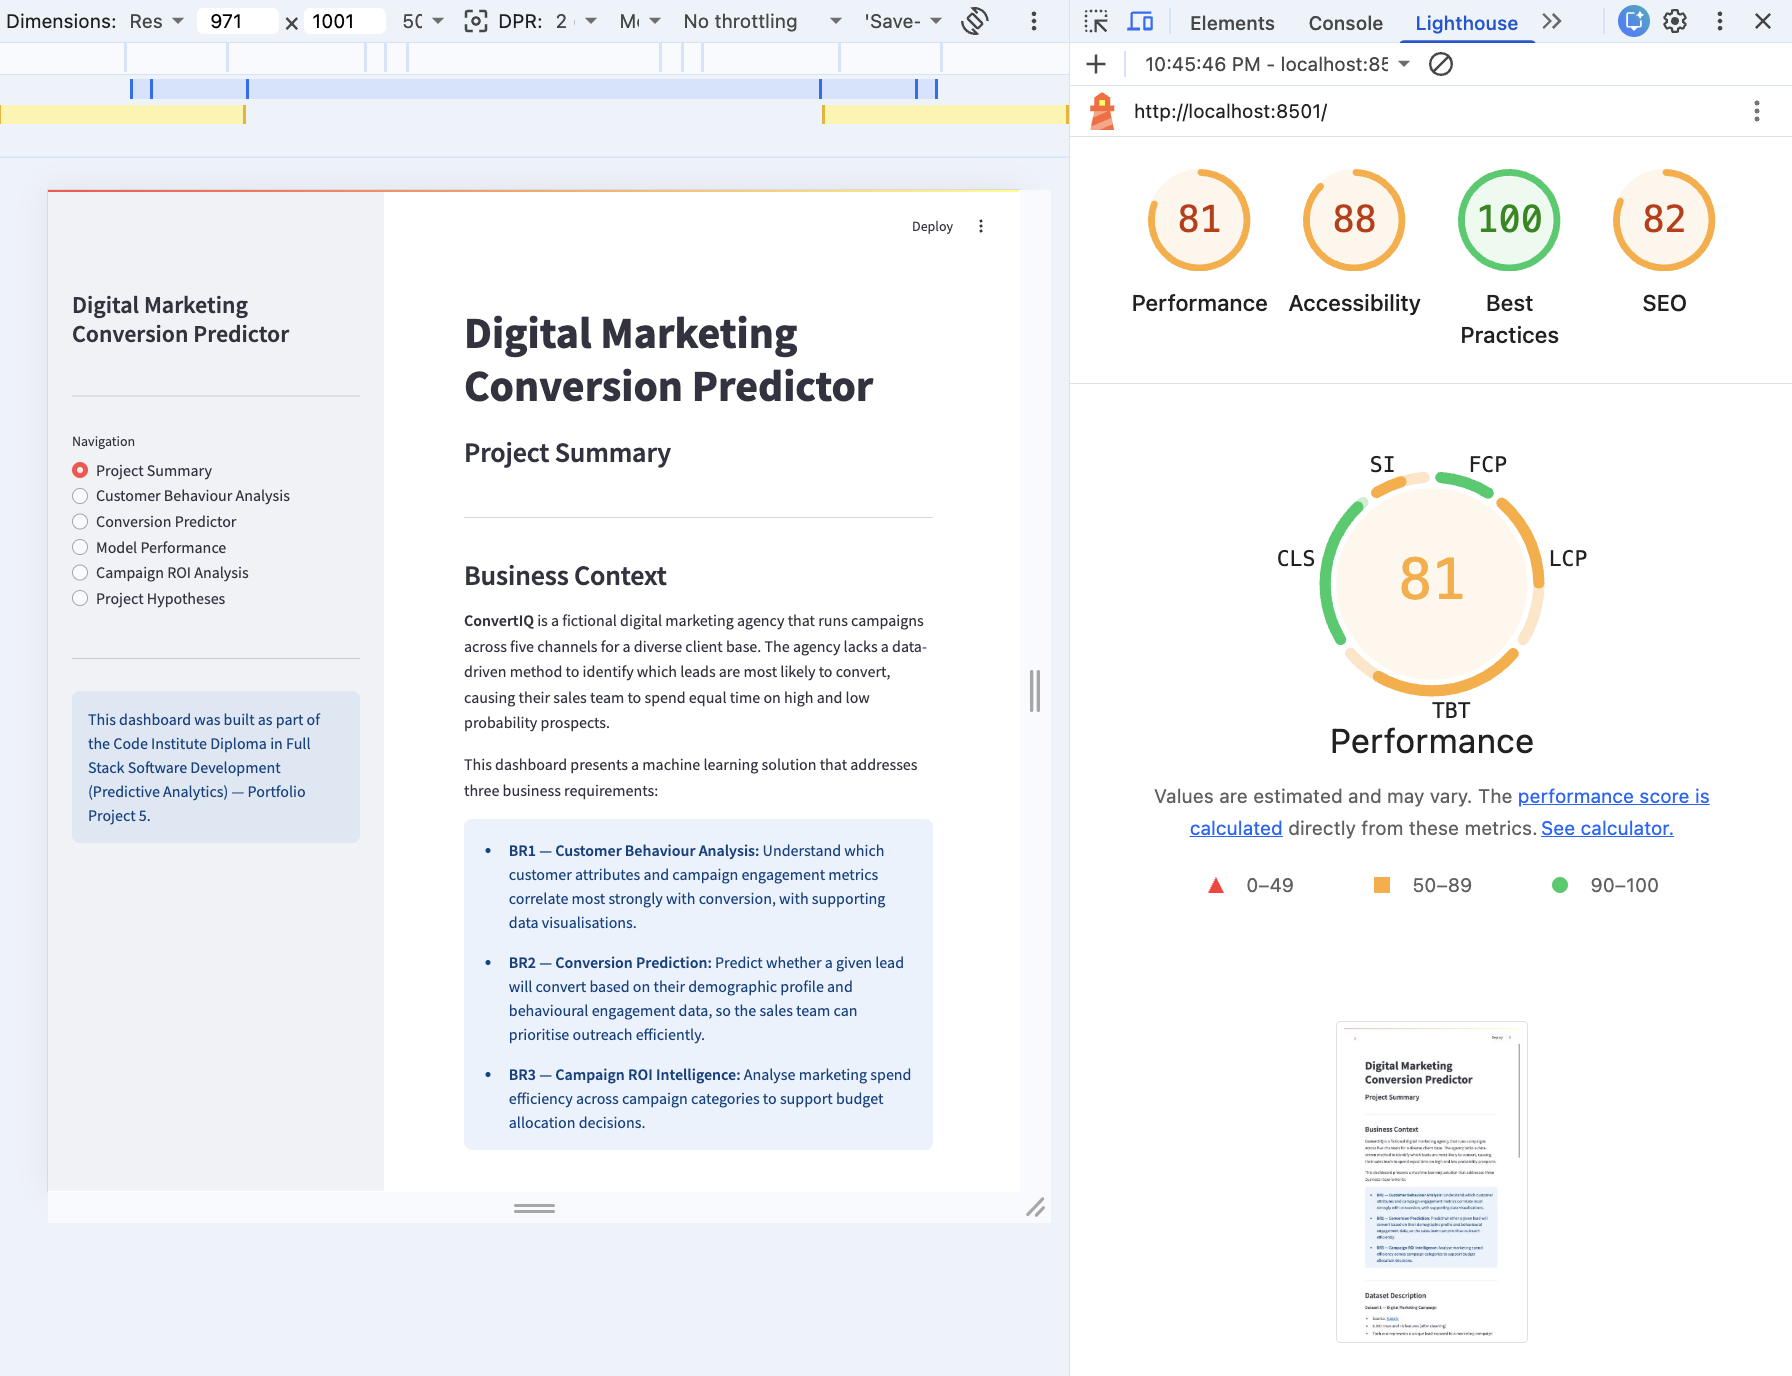
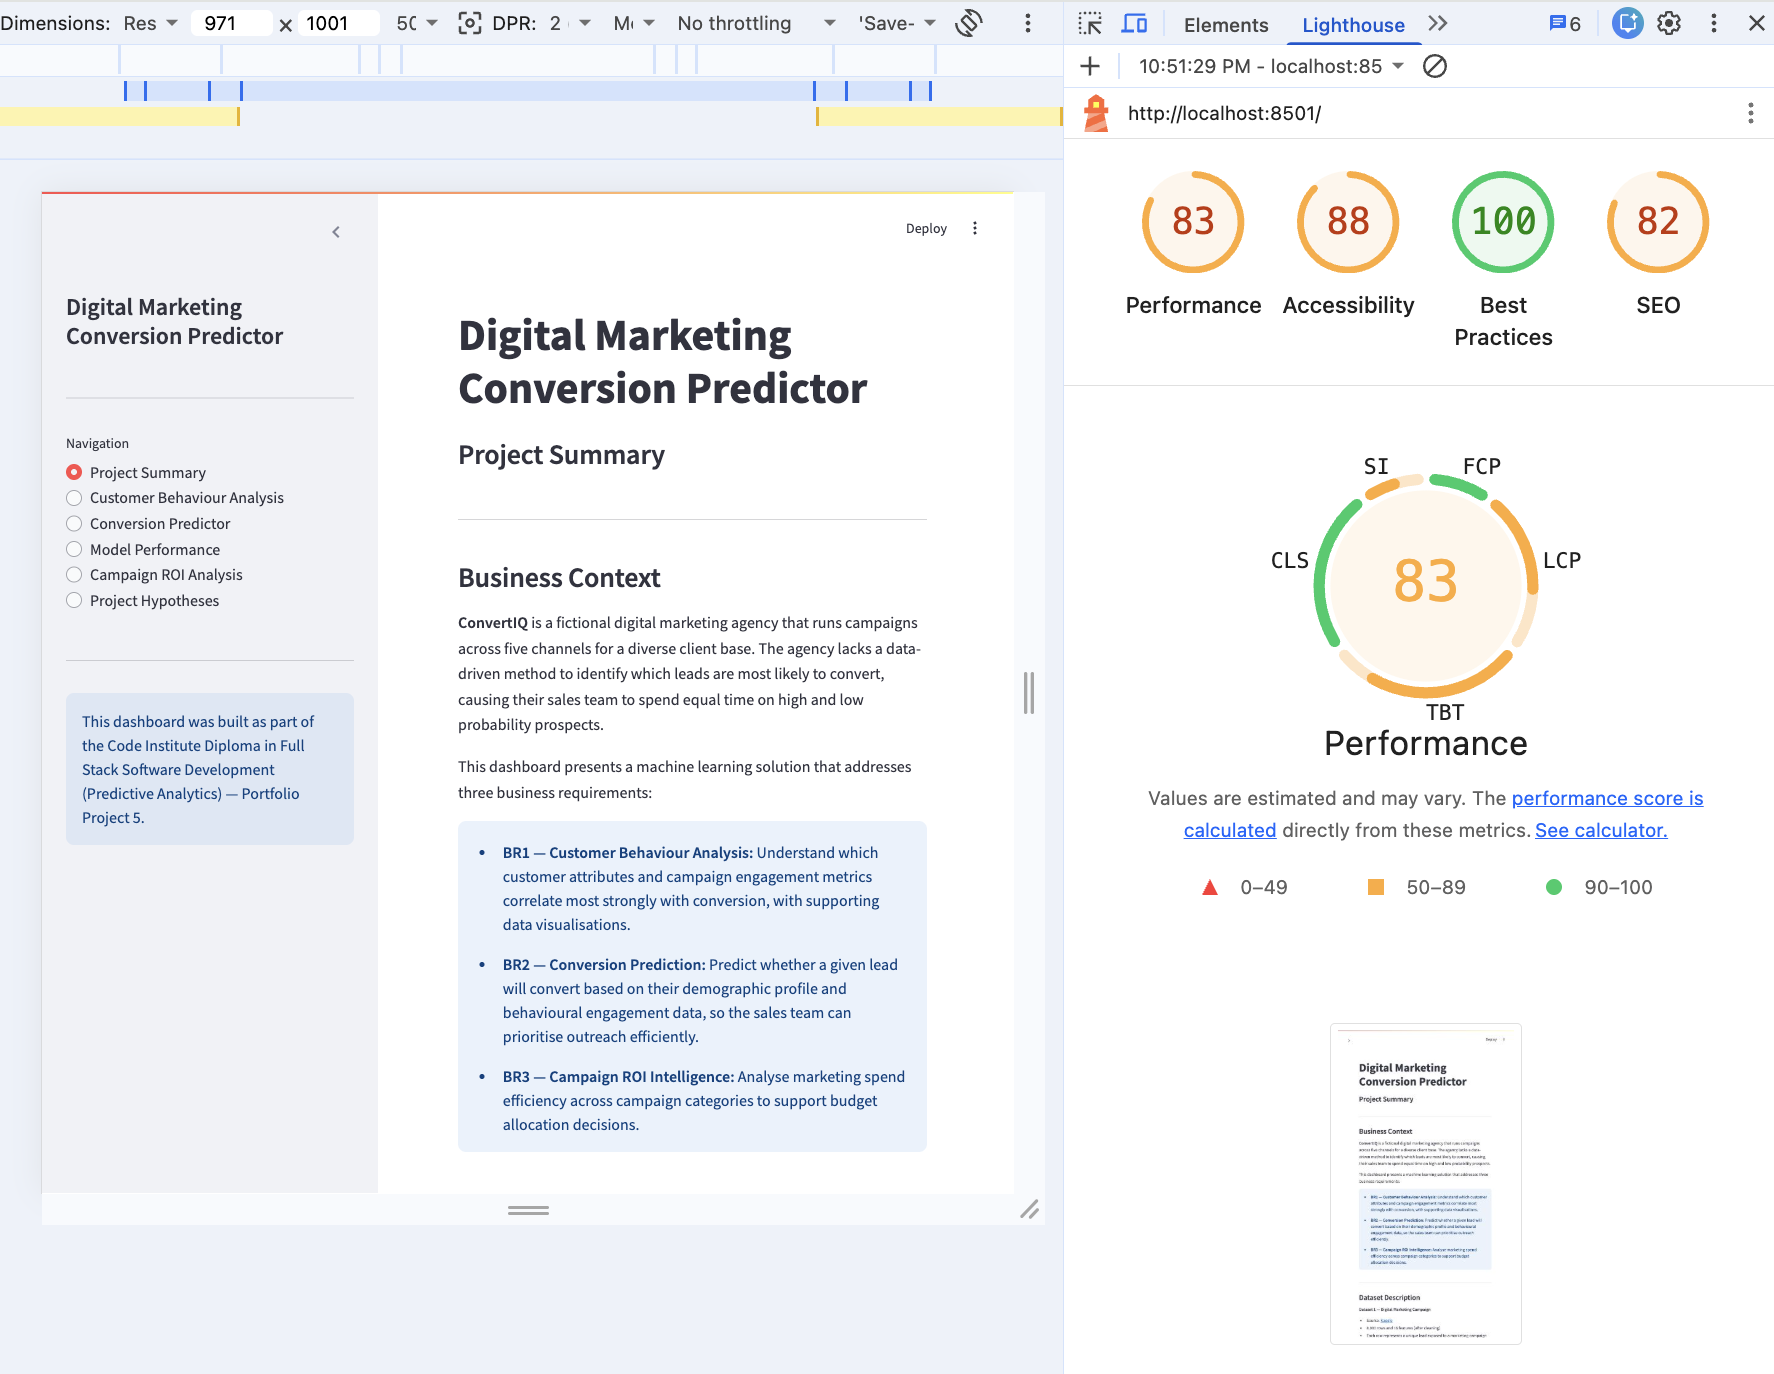
docs: add dashboard screenshots to each page section in README

diff --git a/README.md b/README.md
@@ -630,10 +630,6 @@ the user from data exploration to actionable insights.
 
 ### Dashboard Preview
 
-![Project Summary](docs/screenshots/dashboard/page_summary.png)
-![Behaviour Analysis](docs/screenshots/dashboard/page_analysis.png)
-![Prediction Page](docs/screenshots/dashboard/page_predictor.png)
-
 ---
 
 ### Page 1 — Project Summary
@@ -643,6 +639,12 @@ the user from data exploration to actionable insights.
 - Displays dataset description with an expandable variable table
 - Defines key terminology (Conversion, CTR, ROI, Recall, F1-score)
 - Includes links to original data sources
+
+![Project Summary](docs/screenshots/dashboard/ps-web1.png)
+![Project Summary](docs/screenshots/dashboard/ps-web2.png)
+![Project Summary](docs/screenshots/dashboard/ps-web2a.png)
+![Project Summary](docs/screenshots/dashboard/ps-web2b.png)
+![Project Summary](docs/screenshots/dashboard/ps-web3.png)
 
 **Business Value:**  
 Establishes context and ensures users understand the problem,
@@ -660,6 +662,11 @@ data, and objectives before interacting with the analysis.
 - Interactive feature selection for exploratory analysis
 - Written interpretation provided for each visualisation
 
+![Customer Behaviour Analysis](docs/screenshots/dashboard/cba-web1.png)
+![Customer Behaviour Analysis](docs/screenshots/dashboard/cba-web2.png)
+![Customer Behaviour Analysis](docs/screenshots/dashboard/cba-web3.png)
+![Customer Behaviour Analysis](docs/screenshots/dashboard/cba-web4.png)
+
 **Business Value:**  
 Enables identification of key behavioural drivers of conversion,
 supporting data-driven targeting and campaign optimisation.
@@ -676,6 +683,12 @@ supporting data-driven targeting and campaign optimisation.
   - Probability score displayed via progress bar
 - Dynamic interpretation message based on prediction confidence
 - Explanation of how the model supports decision-making
+
+![Conversion Predictor](docs/screenshots/dashboard/cp-web1.png)
+![Conversion Predictor](docs/screenshots/dashboard/cp-web2.png)
+![Conversion Predictor](docs/screenshots/dashboard/cp-web3.png)
+![Conversion Predictor](docs/screenshots/dashboard/cp-web4.png)
+![Conversion Predictor](docs/screenshots/dashboard/cp-web5.png)
 
 **Business Value:**  
 Allows the sales team to prioritise leads in real time,
@@ -697,6 +710,11 @@ improving efficiency and increasing conversion rates.
 - Hyperparameter tuning summary
 - Clear explanation of model limitations
 
+![Model Performance](docs/screenshots/dashboard/mp-web1.png)
+![Model Performance](docs/screenshots/dashboard/mp-web2.png)
+![Model Performance](docs/screenshots/dashboard/mp-web3.png)
+![Model Performance](docs/screenshots/dashboard/mp-web4.png)
+
 **Business Value:**  
 Builds trust in the model by providing transparency,
 validation, and clear communication of strengths and limitations.
@@ -706,15 +724,15 @@ validation, and clear communication of strengths and limitations.
 ### Page 5 — Campaign ROI Analysis
 
 - Addresses **BR3 — Campaign ROI Intelligence**
-- Summary KPIs:
-  - Total spend
-  - Total revenue
-  - ROI
-  - Number of orders
+- Summary KPIs: Total spend, Total revenue, ROI, Number of orders
 - Scatter plot: marketing spend vs revenue by campaign category
 - Bar chart: average ROI per category
-- Line chart: monthly revenue trends with interactive filters
+- Daily revenue trend with interactive filters
 - Written insights and budget optimisation recommendations
+
+![Campaign ROI Analysis](docs/screenshots/dashboard/cROIa-web1.png)
+![Campaign ROI Analysis](docs/screenshots/dashboard/cROIa-web2.png)
+![Campaign ROI Analysis](docs/screenshots/dashboard/cROIa-web3.png)
 
 **Business Value:**  
 Supports strategic decision-making by identifying
@@ -728,12 +746,13 @@ which campaigns deliver the highest return on investment.
 - Clearly defined hypotheses with corresponding validation methods
 - Statistical results displayed (correlations, p-values, chi-square)
 - Each hypothesis confirmed or rejected with evidence
-- Visual support:
-  - Violin plots (H1)
-  - Bar charts (H2)
-  - Correlation comparison (H3)
 - Summary table consolidating findings
 - Business recommendations derived from each result
+
+![Project Hypotheses](docs/screenshots/dashboard/ph-web1.png)
+![Project Hypotheses](docs/screenshots/dashboard/ph-web2.png)
+![Project Hypotheses](docs/screenshots/dashboard/ph-web3.png)
+
 
 **Business Value:**  
 Demonstrates analytical rigour and ensures that conclusions
@@ -814,7 +833,7 @@ The application was tested using Google Lighthouse on Desktop mode.
 
 | Category | Score |
 |---|---|
-| Performance | 81 |
+| Performance | 83 |
 | Accessibility | 88 |
 | Best Practices | 100 |
 | SEO | 82 |
